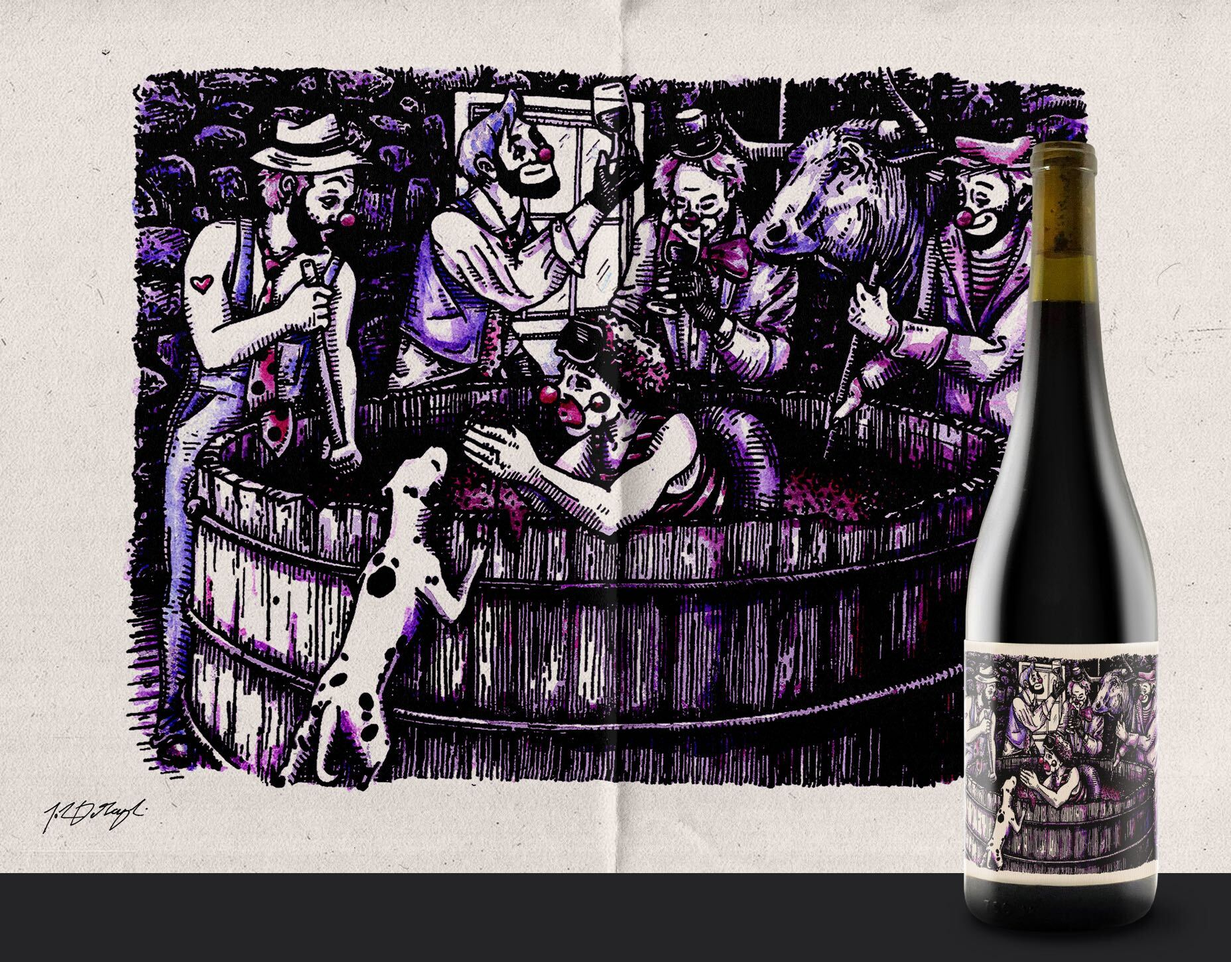
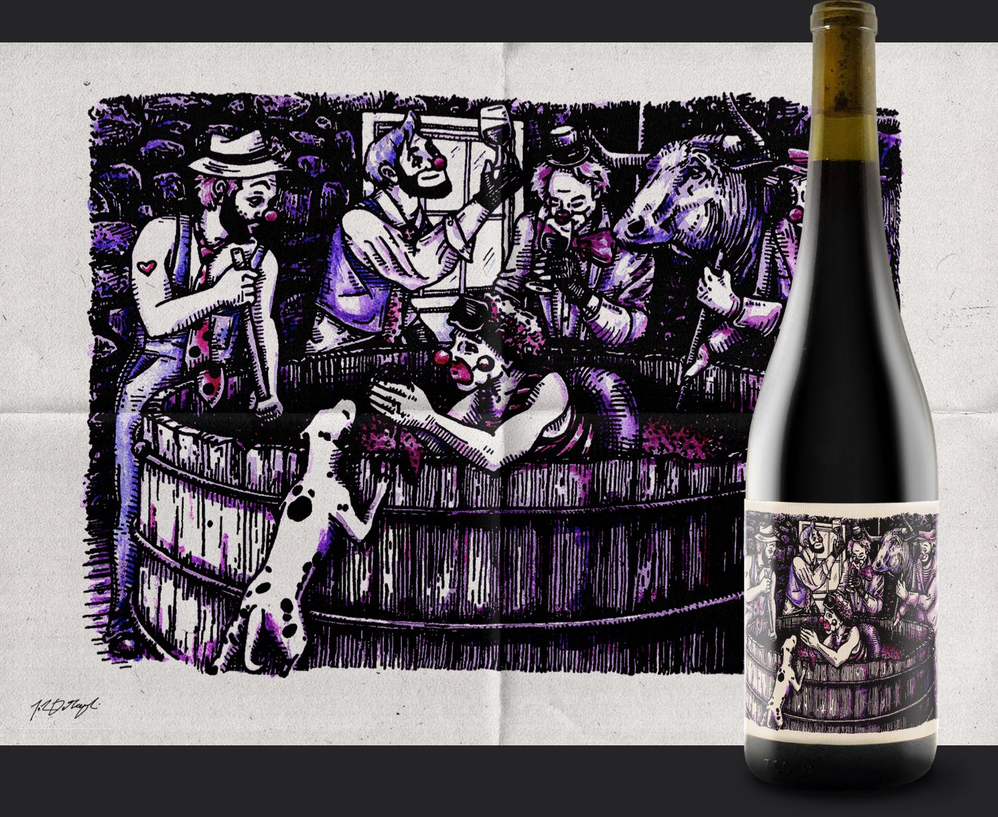
added hellawine and updated notes imagery

diff --git a/src/routes/notes/content/2020-hellawine/index.js b/src/routes/notes/content/2020-hellawine/index.js
@@ -1,0 +1,31 @@
+import { React } from '@/vendor'
+
+export default {
+	title: '2020 Hellawine',
+	date: '2020-01-02',
+	image: require('./2020-hellawine@2x.jpg'),
+	body: (
+		<>
+			A blend of 72% Riesling and 28% Petit Manseng. Has the hunter already become the hunted? As the hintermen march on the untamed wild pushes back as the once peaceful scenery turns territorial towards the uninvited travelers and the wildlife begins to come to life. The risk and reward of these uncharted lands might both be too great to turn back now.
+			If we had acid like this is highschool, we would all be better off! It’s like we crushed up sunlight, squirted a lime on it, then a dash of river stones, and there you have it. Bright bristling and so well balanced. This one will last a lifetime. 100 cases produced.
+			<p>
+				<strong>FRUIT SOURCES</strong><br />
+				Ox-Eye Riesling,<br />
+				Rosedale Petit Manseng
+			</p>
+			<p>
+				<strong>WINEMAKING</strong><br />
+				Stomped whole clusters for a short, soft maceration before whole cluster pressing both varieties together. Co-fermented in neutral Hungarian and French oak 500L barrels. Aged for 14 months on the lees. Bottled 12/11/18 with no fining or tartrate stabilization.
+			</p>
+			<p>
+				<strong>CHEMISTRY</strong><br />
+				pH: 3.19<br />
+				TA: 7.4 gm/L<br />
+				Free SO2 at bottling: 19ppm<br />
+				Alcohol: 12.1% abv<br />
+				G/F: 2.7 g/L<br />
+				Malic Acid: 1.2 g/L
+			</p>
+		</>
+	)
+}
